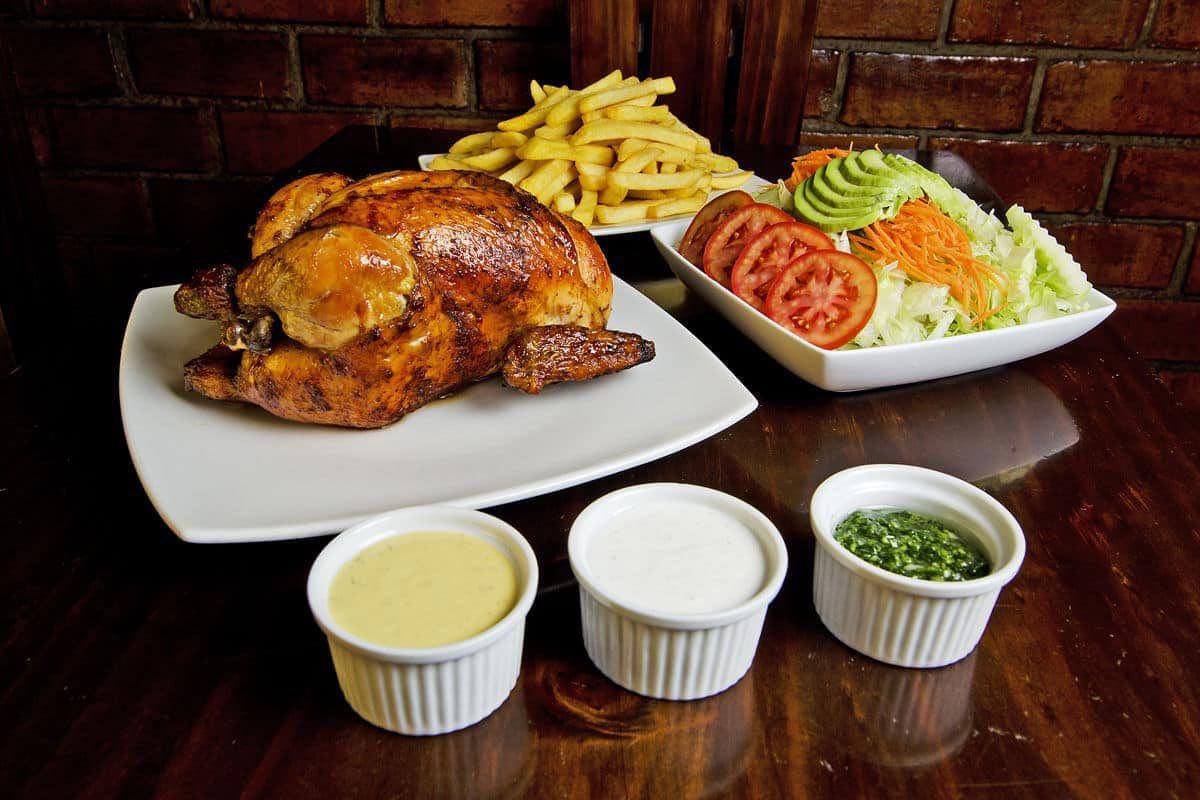
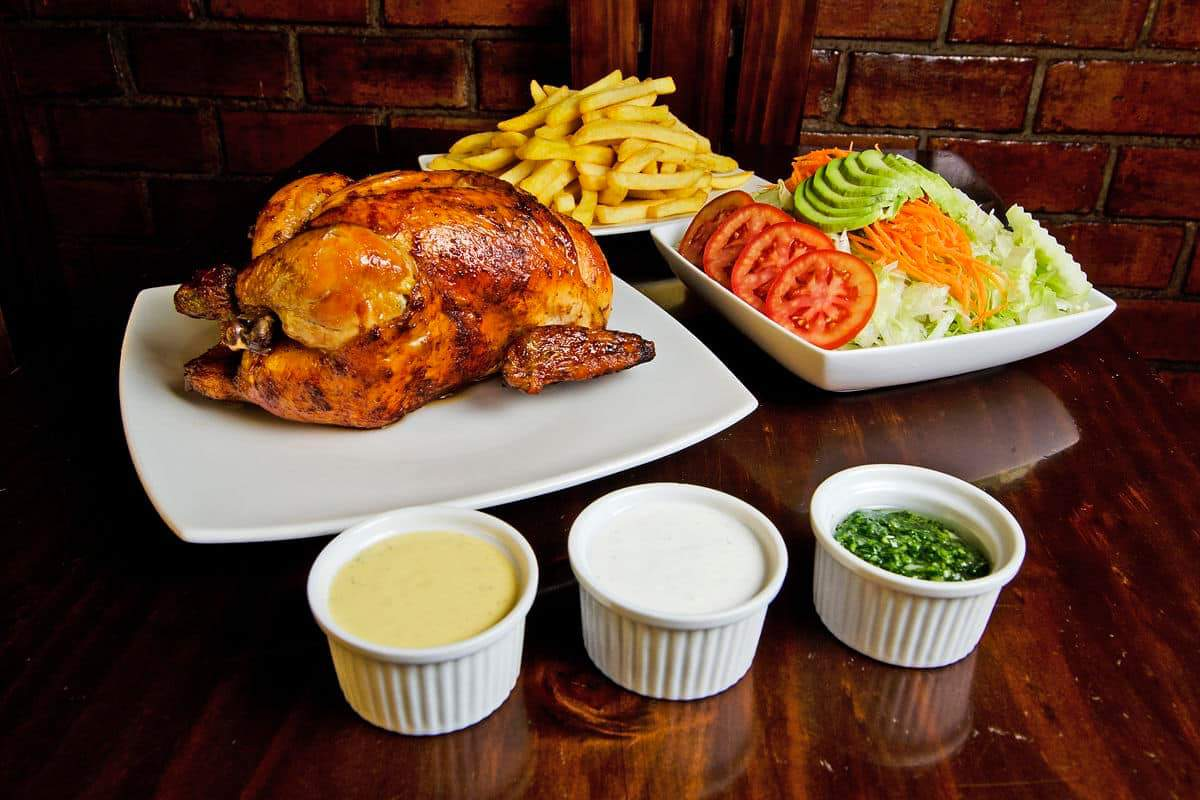
feat: add restaurant food categories

diff --git a/index.html b/index.html
@@ -4,36 +4,44 @@
     <meta charset="UTF-8">
     <meta http-equiv="X-UA-Compatible" content="IE=edge">
     <meta name="viewport" content="width=device-width, initial-scale=1.0">
-    <title>Document</title>
+    <title>San Antonio Subtanjalla - Ica</title>
     <link rel="preconnect" href="https://fonts.googleapis.com">
     <link rel="preconnect" href="https://fonts.gstatic.com" crossorigin>
     <link href="https://fonts.googleapis.com/css2?family=Roboto:wght@300;400;700&display=swap" rel="stylesheet">
     <link rel="stylesheet" href="css/main.css">
+    <link rel="shortcut icon" href="./icons/Logo.png" type="image/x-icon">
     <script defer src="./js/header.js"></script>
 </head>
 <body>
     <header class="header">
-        <div class="header-container1">
-            <div class="header-shopcar">
-                <span> 0 </span>
+        <div class="header-container">
+            <div class="header-container1">
+                <div class="header__logo">
+                    <a href="index.html">
+                        <img src="icons/Logo.png" alt="">
+                    </a>
+                    
+                </div>
+                <div class="header-shopcar">
+                    <span> 0 </span>
+                </div>
+    
+            </div>
+            <div class="header-container2">
+                <div class="header-signup">
+                    <a href="">
+                        <img src="./icons/user.png" alt="">
+                    </a>
+                </div>
+                <button class="header-menu__open">
+                </button>
             </div>
         </div>
-        <div class="header__logo">
-            <img src="icons/Logo.png" alt="">
-        </div>
-        <div class="header-container2">
-            <div class="header-signup">
-                <a href="">
-                    <img src="./icons/user.png" alt="">
-                </a>
-            </div>
-            <button class="header-menu__open">
-            </button>
-        </div>
+
         <div class="header-menu">
             <button class="header-menu__close">
             </button>
-            <nav>
+            <nav class="header-menu__nav">
                 <ul>
                     <li><a href="">Inicio</a></li>
                     <li><a href="">Delivery</a></li>
@@ -52,6 +60,47 @@
                 “Barriga llena corazón contento”
             </p>
             <img src="./images/presentation.jpg" alt="">
+        </section>
+        <section class="main-index-carta">
+           <h2>
+            Carta del Restaurante
+           </h2>
+           <div class="main-index-carta-container">
+            <div class="main-index-carta-container__item">
+                <img src="./images/parrilla.jpg" alt="Carnes a la parrila">
+                <span> Carnes a la parrilla </span>
+            </div>
+            <div class="main-index-carta-container__item">
+                <img src="./images/polloBrasa.jpg" alt="Pollos a la brasa">
+                <span>
+                    Pollos a la brasa
+                </span>
+            </div>
+            <div class="main-index-carta-container__item">
+               <img src="./images/Ensalada.jpg" alt="Ensaladas">
+                <span>
+                    Ensaladas
+                </span>
+            </div>
+            <div class="main-index-carta-container__item">
+                <img src="./images/hamburguesa.jpg" alt="Comida rapida">
+                <span>
+                    Comida rapida
+                </span>
+            </div>
+            <div class="main-index-carta-container__item">
+                <img src="./images/caldoGallina.jpg" alt="Caldos">
+                <span>
+                    Caldos
+                </span>
+            </div>
+            <div class="main-index-carta-container__item">
+                <img src="./images/bebidas.jpg" alt="Bebidas">
+                <span>
+                    Bebidas
+                </span>
+            </div>
+        </div>
         </section>
     </main>
 </body>

diff --git a/css/main.css b/css/main.css
@@ -19,20 +19,31 @@ body {
     font-size: 2.4rem;
     background: var(--main-black);
     color: var(--main-white);
+    position: relative;
 }
 header {
-    height: 60px;
+    height: auto;
     width: 100%;
+}
+.header-container{
+    height: 60px;
     background: var(--main-black);
     display: flex;
     justify-content: space-between;
     align-items: center;
     box-shadow: 0px 2px 15px var(--main-orange);
 }
+.header-container_scrolled{
+    width: 100%;
+    position: fixed;
+    background: rgba(13, 13, 13, 0.5);
+    backdrop-filter: blur(15px);
+}
 .header-container1 {
     display: flex;
     align-items: center;
     justify-content: center;
+    margin-left: 20px;
 }
 .header-container2 {
     display: flex;
@@ -43,6 +54,9 @@ header {
 .header-signup a{
     display: flex;
     align-items: center;
+}
+.header-signup{
+    margin-right: 7px;
 }
 .header__logo {
     display: flex;
@@ -67,14 +81,16 @@ height: 50px;
     background-size: cover;
     background-position: center;
     background-repeat: no-repeat;
+    margin-left: 7px;
 }
-/*Posicionando el contador en elk shopcar*/
+/*Posicionando el contador en el shopcar*/
 .header-shopcar span{
     margin-left: 7px;
     margin-bottom: 10px;
 }
 /*Tamaño del button open navigation*/
 .header-container2 .header-menu__open{
+    margin-right: 20px;
     height: 20px;
     width: 27px;
     border: none;
@@ -108,7 +124,6 @@ height: 50px;
     width: 100vw;
     height: auto;
     backdrop-filter: blur(15px);
-
 }
 
 .header-menu nav{
@@ -137,7 +152,9 @@ height: 50px;
     transition: all 0.5s;
     font-size: 4.2rem;
 }
+
 .menu_opened {
+    position: fixed;
     display: block;
     backdrop-filter: blur(15px);
 }
@@ -146,7 +163,6 @@ height: 50px;
     flex-direction: column;
     align-items: center;
     justify-content: center;
-    height: auto;
 }
 .main-index .main-index-title {
     display: flex;
@@ -160,17 +176,60 @@ height: 50px;
     font-family: 'Roboto';
     font-style: normal;
     font-weight: 700;
-    font-size: 2.4rem;
+    font-size: 2.8rem;
+    margin-bottom: 7px;
 }
 .main-index .main-index-title p{
     font-family: 'Roboto';
     font-style: normal;
     font-weight: 300;
-    font-size: 1.2rem;
+    font-size: 1.4rem;
     line-height: 14px;
     margin-bottom: 25px;
 }
 .main-index .main-index-title img{
     width: 100vw;
-    max-width: 1200px;
+    max-width: 800px;
+}
+.main-index .main-index-carta h2{
+    text-align: center;
+    margin-top: 25px;
+    margin-bottom: 25px;
+    font-style: normal;
+    font-weight: 700;
+    font-size: 2.8rem;
+    color: var(--main-color);
+}
+.main-index-carta-container{
+    margin-left: 20px;
+    margin-right: 20px;
+    display: grid;
+    grid-template-columns: repeat(2, 1fr);
+    flex-wrap: wrap;
+    justify-content: space-around;
+}
+.main-index-carta-container__item{
+    display: flex;
+    flex-direction: column;
+    align-items: center;
+}
+.main-index-carta-container__item img{
+    margin: 7px;
+    width: 100%;
+    max-width: 320px;
+    box-shadow: #000000 0px 0px 10px;
+}
+.main-index-carta-container__item span{
+    font-style: normal;
+    font-weight: 700;
+    font-size: 1.8rem;
+    text-align: center;
+}
+.main-index-carta-container__item img:hover{
+    transition: all 0.5s;
+    transform: scale(1.3);
+}
+.main-index-carta-container__item img:active{
+    transition: all 0.5s;
+    transform: scale(0.7);
 }

diff --git a/js/header.js b/js/header.js
@@ -8,3 +8,14 @@ function toggleMenu() {
 
 openMenuBtn.addEventListener("click", toggleMenu);
 closeMenuBtn.addEventListener("click", toggleMenu);
+
+//header sticky
+const headerContainer = document.querySelector(".header-container");
+
+  window.addEventListener("scroll", function() {
+    if (window.pageYOffset > 0) {
+      headerContainer.classList.add("header-container_scrolled");
+    } else {
+      headerContainer.classList.remove("header-container_scrolled");
+    }
+  });
